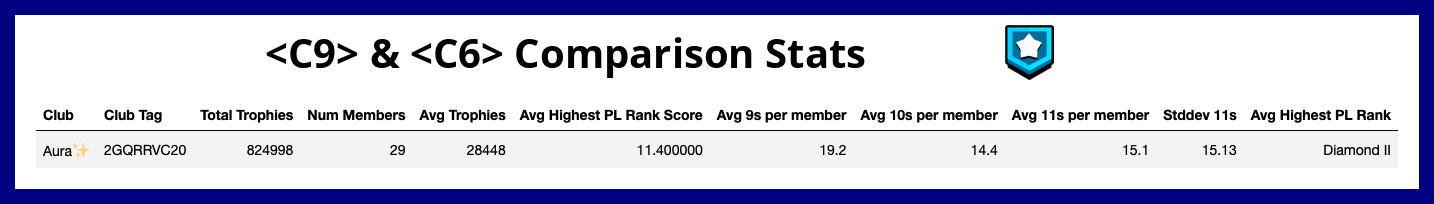
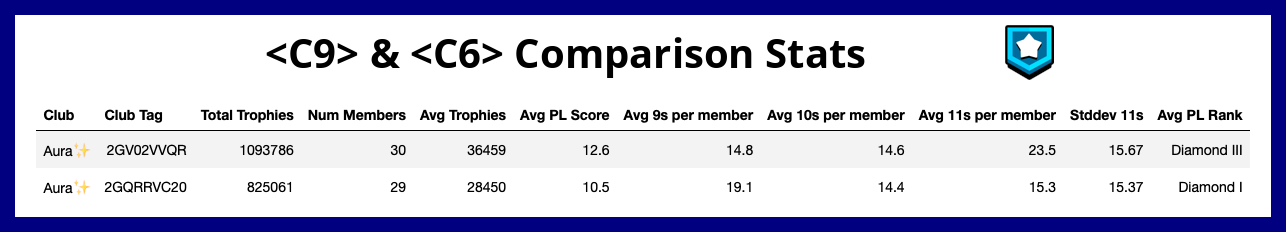
change to current PL rank

diff --git a/aura.py b/aura.py
@@ -124,7 +124,7 @@ def read_csv(gsheet_url, brawler_levels_csv, output, clubname, color_scheme, tru
         print(na)
 
     res = res.sort_values(by=['team','player'], ascending=True).reset_index(drop=True)
-    res = res[['player', 'team', 'tag', 'trophies', 'highest_pl_rank_score','highest_pl_rank','level_9s', 'level_10s', 'level_11s','brawlers_11']]
+    res = res[['player', 'team', 'tag', 'trophies', 'pl_score','pl_rank','level_9s', 'level_10s', 'level_11s','brawlers_11']]
     res['team'] = res['team'].map(map_int)
     write_excel(res, output, clubname, color_scheme, len(na))
 
@@ -137,6 +137,7 @@ print('[Output] '+c9_output)
 
 df1, na1  = read_csv(c9_sheet, c9_brawlers_csv, c9_output, 'C9', color_scheme)
 df1 = df1.drop(columns=['brawlers_11'], axis=1)
+df1 = df1.fillna('')
 dfi.export(df1.style.hide_index(), c9_csv_output)
 print('[Output] '+c9_csv_output)
 
@@ -144,21 +145,23 @@ team1_q = """
 select team,
        sum(trophies)/count(trophies) as avg_trophies,
        sum(level_11s)/count(level_11s) as avg_11s,
-       sum(highest_pl_rank_score)/count(highest_pl_rank_score) as avg_highest_pl_rank_score,
+       sum(pl_score)/sum(case When pl_score = 0 Then 0 Else 1 End) as avg_pl_score,
        group_concat(player) as players
        from df1
        group by team
        order by avg_trophies desc, avg_11s desc
 """
-team1 = sqldf(team1_q, globals())
+team1 = sqldf(team1_q, globals()).fillna(0)
 team1['players'] = team1['players'].map(lambda x: x.replace(',', ', '))
 team1['rank'] = team1.index+1
-team1 = team1[['rank','players','team','avg_trophies','avg_11s','avg_highest_pl_rank_score']]
-team1['avg_highest_pl_rank'] = team1['avg_highest_pl_rank_score'].map(lambda x: mapping_dict[x])
+team1['avg_pl_score'] = team1['avg_pl_score'].map(int)
+team1 = team1[['rank','players','team','avg_trophies','avg_11s','avg_pl_score']]
+team1['avg_pl_rank'] = team1['avg_pl_score'].map(lambda x: mapping_dict[x])
 
 color_scheme2 = ["#072094", "#BBC3E8"]
 df2, na2 = read_csv(c6_sheet, c6_brawlers_csv, c6_output, 'C6', color_scheme2)
 df2 = df2.drop(columns=['brawlers_11'], axis=1)
+df2 = df2.fillna('')
 dfi.export(df2.style.hide_index(), c6_csv_output)
 
 print('[Output] '+c6_output)
@@ -168,17 +171,17 @@ team2_q = """
 select team,
        sum(trophies)/count(trophies) as avg_trophies,
        sum(level_11s)/count(level_11s) as avg_11s,
-       sum(highest_pl_rank_score)/count(highest_pl_rank_score) as avg_highest_pl_rank_score,
+       sum(pl_score)/sum(case When pl_score = 0 Then 0 Else 1 End) as avg_pl_score,
        group_concat(player) as players
        from df2
        group by team
        order by avg_trophies desc, avg_11s desc
 """
-team2 = sqldf(team2_q, globals())
+team2 = sqldf(team2_q, globals()).fillna('')
 team2['players'] = team2['players'].map(lambda x: x.replace(',', ', '))
 team2['rank'] = team2.index+1
-team2 = team2[['rank','players','team','avg_trophies','avg_11s','avg_highest_pl_rank_score']]
-team2['avg_highest_pl_rank'] = team2['avg_highest_pl_rank_score'].map(lambda x: mapping_dict[x])
+team2 = team2[['rank','players','team','avg_trophies','avg_11s','avg_pl_score']]
+team2['avg_pl_rank'] = team2['avg_pl_score'].map(lambda x: mapping_dict[x])
 
 
 def plot_bar(clubname, excel_file, sheetname, output_file):
@@ -215,7 +218,7 @@ dfi.export(team2.style.hide_index(), c6_team_averages_png)
 print('[Output] '+c6_team_averages_png)
 
 comparison_df = pd.read_csv(comparison)
-cols_to_round = ['Avg 9s per member', 'Avg 9s per member','Avg 10s per member','Avg 11s per member','Stddev 11s']
+cols_to_round = ['Avg 9s per member', 'Avg 9s per member','Avg 10s per member','Avg 11s per member','Stddev 11s','Avg PL Score']
 for col in cols_to_round:
     comparison_df[col] = comparison_df[col].astype(str)
 

diff --git a/main.py b/main.py
@@ -22,7 +22,7 @@ import requests
 import re
 
 from pl_mapping_dict import mapping_dict
-from get_pl_rank import get_pl_rank, get_pl_rank_club
+from get_pl_rank import *
 
 headers = {'User-Agent': 'Mozilla/5.0 (X11; Linux x86_64; rv:12.0) Gecko/20100101 Firefox/12.0'}
 
@@ -122,15 +122,12 @@ def get_club_stats(clubtag, truncate_num, include_tens, include_date, savelist, 
         df.insert(0, 'tag', player.tag)
         df.insert(0, 'player', player.name)
 
-        if args.get_pl_rank:
-            df.insert(0, 'highest_pl_rank_score', get_pl_rank(player.tag)[1])
-
         df_list.append(df)
 
     res = pd.concat(df_list).reset_index(drop=True)
     if args.get_pl_rank:
-        # res = get_pl_rank_club(res)
-        res['highest_pl_rank'] = res['highest_pl_rank_score'].map(lambda x: mapping_dict[x])
+        res = get_pl_rank_df(res, clubtag)
+        res['pl_rank'] = res['pl_score'].map(lambda x: mapping_dict[x])
     
     levels = res.apply(pd.Series.value_counts, axis=1)[[9,10,11]].fillna(0)
 
@@ -141,7 +138,7 @@ def get_club_stats(clubtag, truncate_num, include_tens, include_date, savelist, 
     for col in float_col.columns.values:
         res[col] = res[col].astype('int64')
 
-    avoid_cols = ['player','tag','trophies','highest_pl_rank_score','highest_pl_rank','level_9s','level_10s','level_11s','brawlers_10','brawlers_11','date']
+    avoid_cols = ['player','tag','trophies','pl_score','pl_rank','level_9s','level_10s','level_11s','brawlers_10','brawlers_11','date']
 
     # Gets the names of all the level 11 brawlers and aggregates into a single string, which is added as a new column 'brawlers_11'
     club_ten_list, club_eleven_list = [], []
@@ -189,13 +186,13 @@ def get_club_stats(clubtag, truncate_num, include_tens, include_date, savelist, 
                     'Total Trophies': sum(res['trophies']),
                     'Num Members':  len(members),
                     'Avg Trophies': int(sum(res['trophies'])/len(res)),
-                    'Avg Highest PL Rank Score':round(sum(res['highest_pl_rank_score']/len(res)),1),
+                    'Avg PL Score':round(sum(res['pl_score']/len(res[res['pl_score']!=0])),1),
                     'Avg 9s per member':round(sum(res['level_9s'])/len(res),1),
                     'Avg 10s per member': round(sum(res['level_10s'])/len(res),1),
                     'Avg 11s per member': round(sum(res['level_11s'])/len(res),1),
                     'Stddev 11s': round(statistics.stdev(res['level_11s']),2)
                     }
-        stats_dict['Avg Highest PL Rank'] = mapping_dict[int(round(sum(res['highest_pl_rank_score']/len(res)),1))]
+        stats_dict['Avg PL Rank'] = mapping_dict[int(stats_dict['Avg PL Score'])]
 
     else:
         stats_dict = {'Club': club.name,
@@ -240,7 +237,7 @@ def get_player_stats(playertag, truncate_num):
 
 if __name__ == '__main__':
     parser = argparse.ArgumentParser()
-    parser.add_argument('--tags', '-t', nargs="+", default=['2GQRRVC20'], type=str, help='python -i main.py -t 2YQUPUYJ') #'2GV02VVQR',
+    parser.add_argument('--tags', '-t', nargs="+", default=['2GV02VVQR','2GQRRVC20'], type=str, help='python -i main.py -t 2YQUPUYJ') 
     parser.add_argument('--truncate',  default=60, type=int, help='yes to only list the top X brawlers, else list all')
     parser.add_argument('--include_tens', '-i',  default='no', type=str, choices=['yes','no'], help='yes to include the list of each members lv 10 brawlers')
     parser.add_argument('--include_date', '-id',  default='no', type=str, choices=['yes','no'], help='yes to include date as a column')

diff --git a/get_pl_rank.py b/get_pl_rank.py
@@ -1,52 +1,34 @@
 import pandas as pd 
 import requests
 import re
-import concurrent.futures
-import os
-import time
 
 from pl_mapping_dict import mapping_dict
 
 headers = {'User-Agent': 'Mozilla/5.0 (X11; Linux x86_64; rv:12.0) Gecko/20100101 Firefox/12.0'}
 
-test_url = 'https://brawlstats.com/profile/2GV02VVQR'
+tag = '#2GV02VVQR'
 
-# Note that cloudfare has a rate limit of 1200 requests per 5 mins
-def get_pl_rank(tag):
-    attempts = 0
-    while attempts <= 5:
-        try:
-            brawlstars_url = 'https://brawlstats.com/profile/'
-            tag = tag.replace('#','')
-            url = brawlstars_url + tag
-            response = requests.get(url, headers=headers).text
-            solo_pl = re.search('<img src="https://cdn.brawlstats.com/ranked-ranks/ranked_ranks_l_(.+?).png" class="DPUFH-EhiGBBrkki4Gsaf"', response).group(1)
-            return (tag, int(solo_pl))
-        except:
-            pass
-            attempts+=1
-    print('Error getting PL rank')
-    return (tag, -1)
+def get_pl_rank_df(club_df, tag):
+        brawlstars_url = 'https://brawlstats.com/club/'
+        tag = tag.replace('#','')
+        url = brawlstars_url + tag
+        response = requests.get(url, headers=headers).text
 
-def get_pl_rank_club(original_df):
-        if 'highest_pl_rank_score' not in original_df.columns:
-                tags = list(original_df['tag'])
-                res = []
-                with concurrent.futures.ThreadPoolExecutor(max_workers=10) as executor:
-                        # Start the load operations and mark each future with its URL
-                        # future_to_url = {executor.submit(get_pl_rank, tag, header): (tag, header) for (tag, header) in params}
-                        future_to_url = {executor.submit(get_pl_rank, tag) for tag in tags}
-                        for future in concurrent.futures.as_completed(future_to_url):
-                                data = future.result()
-                                res.append(data)
-                res_df = pd.DataFrame.from_records(res, columns =['tag','highest_pl_rank_score'])
-                print(res_df)
-                res_df['highest_pl_rank'] = res_df['highest_pl_rank_score'].map(lambda x: mapping_dict[x])
-                res_df['tag'] = '#'+res_df['tag']
-                df = original_df.merge(res_df, on='tag')
-                return df
-        else:
-                return original_df
+        start_index = response.find('"members":[')
+        end_index = response.find('],"membersOnline"')
+        trunc_response = response[start_index+12:end_index]
 
+        members = trunc_response.split('"name":"')[1:]
 
+        res_list= []
 
+        for member in members:
+                player_tag = re.search('"hashtag":"(.+?)"', member).group(1)
+                pl_score =  int(re.search('"powerLeagueSolo":(.+?),', member).group(1))
+                res_list.append((player_tag, pl_score))
+
+        df = pd.DataFrame.from_records(res_list, columns =['tag','pl_score'])
+        df['tag'] = '#'+df['tag']
+        
+        res = club_df.merge(df, on='tag', how='inner')
+        return res

diff --git a/pl_mapping_dict.py b/pl_mapping_dict.py
@@ -1,4 +1,5 @@
-mapping_dict = {1:'Bronze I',
+mapping_dict = {0:'',
+                1:'Bronze I',
                 2:'Bronze II',
                 3:'Bronze III',
                 4:'Silver I',
